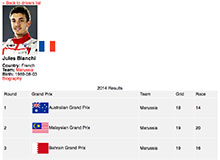
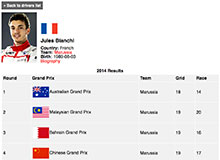
minor touchups to angularf1 & accountmanage code demos

diff --git a/build/code/work/angularf1-v1/partials/driver.html b/build/code/work/angularf1-v1/partials/driver.html
@@ -1,12 +1,12 @@
 <section>
-	<a href="./#/drivers" class="view-switch">&laquo; Back to drivers list</a>
-	<div>
-		<div>
+	<a href="./#/drivers" class="view-switch btn">&laquo; Back to drivers list</a>
+	<div class="row">
+		<div class="col">
 			<img ng-show="driver" src="img/drivers/{{driver.Driver.driverId}}.jpg">
+		</div>
+		<div class="col">
 			<img ng-show="driver" src="img/flags/{{driver.Driver.nationality}}.png">
 			<h1 class="driver-name">{{driver.Driver.givenName}}&nbsp;{{driver.Driver.familyName}}</h1>
-		</div>
-		<div>
 			<strong>Country:</strong> {{driver.Driver.nationality}}   <br>
 			<strong>Team:</strong> <a href="./#/teams/{{driver.Constructors[0].constructorId}}" class="view-switch">{{driver.Constructors[0].name}}</a><br>
 			<strong>Birth:</strong> {{driver.Driver.dateOfBirth}}<br>
@@ -23,11 +23,11 @@
 			</thead>
 			<tbody>
 				<tr>
-					<td>Round</td>
-					<td>Grand Prix</td>
-					<td>Team</td> 
-					<td>Grid</td> 
-					<td>Race</td>
+					<th>Round</th>
+					<th>Grand Prix</th>
+					<th>Team</th> 
+					<th>Grid</th> 
+					<th>Race</th>
 				</tr>
 				<tr ng-repeat="race in races">
 					<td>{{race.round}}</td>
@@ -38,6 +38,7 @@
 				</tr>
 			</tbody>
 		</table>
+		<img src="img/loading.gif" id="loading-gif" alt="loading, please wait">
 	</div>
 
 </section>

diff --git a/src/pages/code/work/angularf1-v1/partials/driver.html b/src/pages/code/work/angularf1-v1/partials/driver.html
@@ -1,12 +1,12 @@
 <section>
-	<a href="./#/drivers" class="view-switch">&laquo; Back to drivers list</a>
-	<div>
-		<div>
+	<a href="./#/drivers" class="view-switch btn">&laquo; Back to drivers list</a>
+	<div class="row">
+		<div class="col">
 			<img ng-show="driver" src="img/drivers/{{driver.Driver.driverId}}.jpg">
+		</div>
+		<div class="col">
 			<img ng-show="driver" src="img/flags/{{driver.Driver.nationality}}.png">
 			<h1 class="driver-name">{{driver.Driver.givenName}}&nbsp;{{driver.Driver.familyName}}</h1>
-		</div>
-		<div>
 			<strong>Country:</strong> {{driver.Driver.nationality}}   <br>
 			<strong>Team:</strong> <a href="./#/teams/{{driver.Constructors[0].constructorId}}" class="view-switch">{{driver.Constructors[0].name}}</a><br>
 			<strong>Birth:</strong> {{driver.Driver.dateOfBirth}}<br>
@@ -23,11 +23,11 @@
 			</thead>
 			<tbody>
 				<tr>
-					<td>Round</td>
-					<td>Grand Prix</td>
-					<td>Team</td> 
-					<td>Grid</td> 
-					<td>Race</td>
+					<th>Round</th>
+					<th>Grand Prix</th>
+					<th>Team</th> 
+					<th>Grid</th> 
+					<th>Race</th>
 				</tr>
 				<tr ng-repeat="race in races">
 					<td>{{race.round}}</td>
@@ -38,6 +38,7 @@
 				</tr>
 			</tbody>
 		</table>
+		<img src="img/loading.gif" id="loading-gif" alt="loading, please wait">
 	</div>
 
 </section>

diff --git a/build/code/work/angularf1-v1/css/main.css b/build/code/work/angularf1-v1/css/main.css
@@ -73,10 +73,16 @@ strong {
   margin:20px 0;
   width:100%;
 }
-.app-wrap table td {
+.app-wrap table th {
+  font-weight:bold;
+  padding:0 0 5px;
+}
+.app-wrap table tbody th,
+.app-wrap table tbody td {
   background:#f1f1f1;
   border:1px solid #fff;
   padding:5px;
+  text-align:left;
   vertical-align: middle;
 }
 .app-wrap table td img {
@@ -95,8 +101,44 @@ strong {
 .app-wrap .view-switch:focus {
   color:#666;
 }
+.app-wrap .view-switch.btn {
+  background-color:#666;
+  color:#fff;
+  display:inline-block;
+  font-size:14px;
+  font-weight:bold;
+  line-height:1;
+  margin:0 10px 10px 0;
+  padding:8px;
+  text-decoration: none;
+}
+.app-wrap .view-switch.btn:hover,
+.app-wrap .view-switch.btn:focus {
+  background-color:#f00;
+}
 .app-wrap h1.driver-name {
   font-size:1.2em;
   font-weight:bold;
   margin:0 0 10px;
+}
+.app-wrap .col {
+  display:inline-block;
+}
+.app-wrap .col:first-child {
+  margin-right:10px;
+}
+.app-wrap input[type="text"] {
+  background:none;
+  border:1px solid #aaa;
+  border-radius:0;
+  color:#222;
+  font-size:14px;
+  padding:5px;
+}
+.app-wrap select {
+  border:1px solid #aaa;
+  border-radius:0;
+  font-size:14px;
+  height:30px;
+  padding:5px;
 }

diff --git a/src/pages/code/work/angularf1-v1/css/main.css b/src/pages/code/work/angularf1-v1/css/main.css
@@ -73,10 +73,16 @@ strong {
   margin:20px 0;
   width:100%;
 }
-.app-wrap table td {
+.app-wrap table th {
+  font-weight:bold;
+  padding:0 0 5px;
+}
+.app-wrap table tbody th,
+.app-wrap table tbody td {
   background:#f1f1f1;
   border:1px solid #fff;
   padding:5px;
+  text-align:left;
   vertical-align: middle;
 }
 .app-wrap table td img {
@@ -95,8 +101,44 @@ strong {
 .app-wrap .view-switch:focus {
   color:#666;
 }
+.app-wrap .view-switch.btn {
+  background-color:#666;
+  color:#fff;
+  display:inline-block;
+  font-size:14px;
+  font-weight:bold;
+  line-height:1;
+  margin:0 10px 10px 0;
+  padding:8px;
+  text-decoration: none;
+}
+.app-wrap .view-switch.btn:hover,
+.app-wrap .view-switch.btn:focus {
+  background-color:#f00;
+}
 .app-wrap h1.driver-name {
   font-size:1.2em;
   font-weight:bold;
   margin:0 0 10px;
+}
+.app-wrap .col {
+  display:inline-block;
+}
+.app-wrap .col:first-child {
+  margin-right:10px;
+}
+.app-wrap input[type="text"] {
+  background:none;
+  border:1px solid #aaa;
+  border-radius:0;
+  color:#222;
+  font-size:14px;
+  padding:5px;
+}
+.app-wrap select {
+  border:1px solid #aaa;
+  border-radius:0;
+  font-size:14px;
+  height:30px;
+  padding:5px;
 }

diff --git a/build/code/work/accountmanage/view-print-edocs.html b/build/code/work/accountmanage/view-print-edocs.html
@@ -1,0 +1,30 @@
+<!DOCTYPE html>
+<html lang="en">
+<head>
+	<title>ABC Company Demo - Account Summary</title>
+	<meta charset="utf-8">
+	<meta http-equiv="X-UA-Compatible" content="IE=edge,chrome=1" />
+	<meta name="viewport" content="width=device-width, initial-scale=1.0, maximum-scale=1.0, user-scalable=no" />
+	<link rel="stylesheet" href="css/main.min.css">
+	<!-- [if lt IE 9]>
+		<script src="js/lib/html5shiv.js"></script>
+	<![endif]-->
+	
+</head>
+<body class="view-print-edocs">
+	
+
+
+<div class="seven-thirty-box eight-hundred">
+
+	<div class="clickable-jpg-container">
+		<img src="img/view-print-edocs-01.jpg" alt="" class="clickable-jpg">
+	</div>
+	
+</div>
+
+	<script src="js/lib/jquery-1.9.1.min.js"></script>
+	<script src="js/lib/jquery.cookie.js"></script>
+	<script src="js/global.min.js"></script>
+</body>
+</html>

diff --git a/src/pages/code/work/accountmanage/view-print-edocs.html b/src/pages/code/work/accountmanage/view-print-edocs.html
@@ -1,0 +1,30 @@
+<!DOCTYPE html>
+<html lang="en">
+<head>
+	<title>ABC Company Demo - Account Summary</title>
+	<meta charset="utf-8">
+	<meta http-equiv="X-UA-Compatible" content="IE=edge,chrome=1" />
+	<meta name="viewport" content="width=device-width, initial-scale=1.0, maximum-scale=1.0, user-scalable=no" />
+	<link rel="stylesheet" href="css/main.min.css">
+	<!-- [if lt IE 9]>
+		<script src="js/lib/html5shiv.js"></script>
+	<![endif]-->
+	
+</head>
+<body class="view-print-edocs">
+	
+
+
+<div class="seven-thirty-box eight-hundred">
+
+	<div class="clickable-jpg-container">
+		<img src="img/view-print-edocs-01.jpg" alt="" class="clickable-jpg">
+	</div>
+	
+</div>
+
+	<script src="js/lib/jquery-1.9.1.min.js"></script>
+	<script src="js/lib/jquery.cookie.js"></script>
+	<script src="js/global.min.js"></script>
+</body>
+</html>

diff --git a/build/code/work/angularf1-v1/js/controllers.js b/build/code/work/angularf1-v1/js/controllers.js
@@ -31,6 +31,7 @@ app.controller('driverController', function($scope, $routeParams, $rootScope, er
 		$scope.driver = response.MRData.StandingsTable.StandingsLists[0].DriverStandings[0];
 	});
 	ergastAPIservice.getDriverRaces($scope.id, $rootScope.year).success(function(response) {
+		document.getElementById('loading-gif').style.display = 'none';
 		$scope.races = response.MRData.RaceTable.Races;
 	});
 });

diff --git a/src/pages/code/work/angularf1-v1/js/controllers.js b/src/pages/code/work/angularf1-v1/js/controllers.js
@@ -31,6 +31,7 @@ app.controller('driverController', function($scope, $routeParams, $rootScope, er
 		$scope.driver = response.MRData.StandingsTable.StandingsLists[0].DriverStandings[0];
 	});
 	ergastAPIservice.getDriverRaces($scope.id, $rootScope.year).success(function(response) {
+		document.getElementById('loading-gif').style.display = 'none';
 		$scope.races = response.MRData.RaceTable.Races;
 	});
 });

diff --git a/build/code/work/angularf1-v1/partials/team.html b/build/code/work/angularf1-v1/partials/team.html
@@ -1,5 +1,5 @@
 <section>
-	<a href="./#/teams" class="view-switch">&laquo; Back to Constructors list</a>
+	<a href="./#/teams" class="view-switch btn">&laquo; Back to Constructors list</a>
 	<div>
 		<div>
 			<img ng-show="team" src="img/flags/{{team.Constructor.nationality}}.png">

diff --git a/src/pages/code/work/angularf1-v1/partials/team.html b/src/pages/code/work/angularf1-v1/partials/team.html
@@ -1,5 +1,5 @@
 <section>
-	<a href="./#/teams" class="view-switch">&laquo; Back to Constructors list</a>
+	<a href="./#/teams" class="view-switch btn">&laquo; Back to Constructors list</a>
 	<div>
 		<div>
 			<img ng-show="team" src="img/flags/{{team.Constructor.nationality}}.png">

diff --git a/build/code/work/angularf1-v1/partials/drivers.html b/build/code/work/angularf1-v1/partials/drivers.html
@@ -1,4 +1,4 @@
-<a href="#/teams" class="view-switch">Constructors list</a>
+<a href="#/teams" class="view-switch btn">Constructors list</a>
 <input type="text" ng-model="nameFilter" placeholder="Search">
 
 <select ng-model="year" ng-change="change(year)">

diff --git a/src/pages/code/work/angularf1-v1/partials/drivers.html b/src/pages/code/work/angularf1-v1/partials/drivers.html
@@ -1,4 +1,4 @@
-<a href="#/teams" class="view-switch">Constructors list</a>
+<a href="#/teams" class="view-switch btn">Constructors list</a>
 <input type="text" ng-model="nameFilter" placeholder="Search">
 
 <select ng-model="year" ng-change="change(year)">
